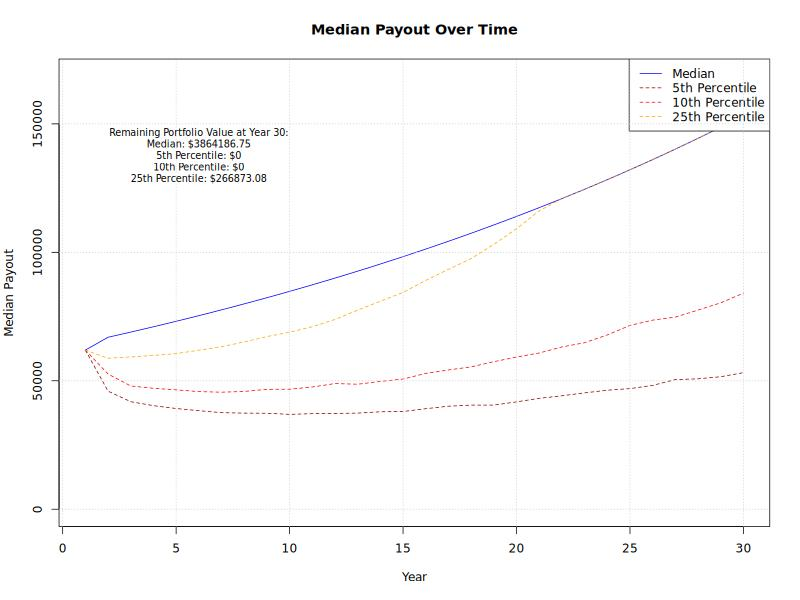
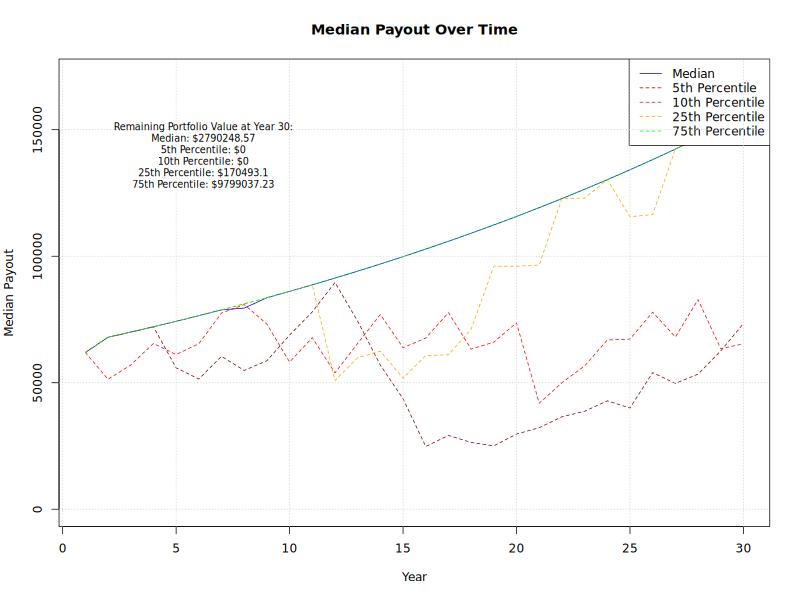
Adjust simulation to take runs independently instead of averaging years accross simulations

diff --git a/TODO.md b/TODO.md
@@ -5,7 +5,3 @@
   - The money is always taken out in a way to get closest to the target distribution of the portfolio. For example, if
     the target distribution is 70% stocks and 30% bonds, and the portfolio is currently at 80% stocks and 20% bonds,
     then the money will be taken out from the stocks first to get closer to the target distribution.
-- Median and quantiles of the drawdown are taken across each year instead of across the entire simulation, which might
-  make the results appear worse (but definitely less volatile) than they should be.
-  - Instead sort the simulations by total return (payouts + remaining portfolio value) and take the median and
-    quantiles across the simulations instead of across the years.
